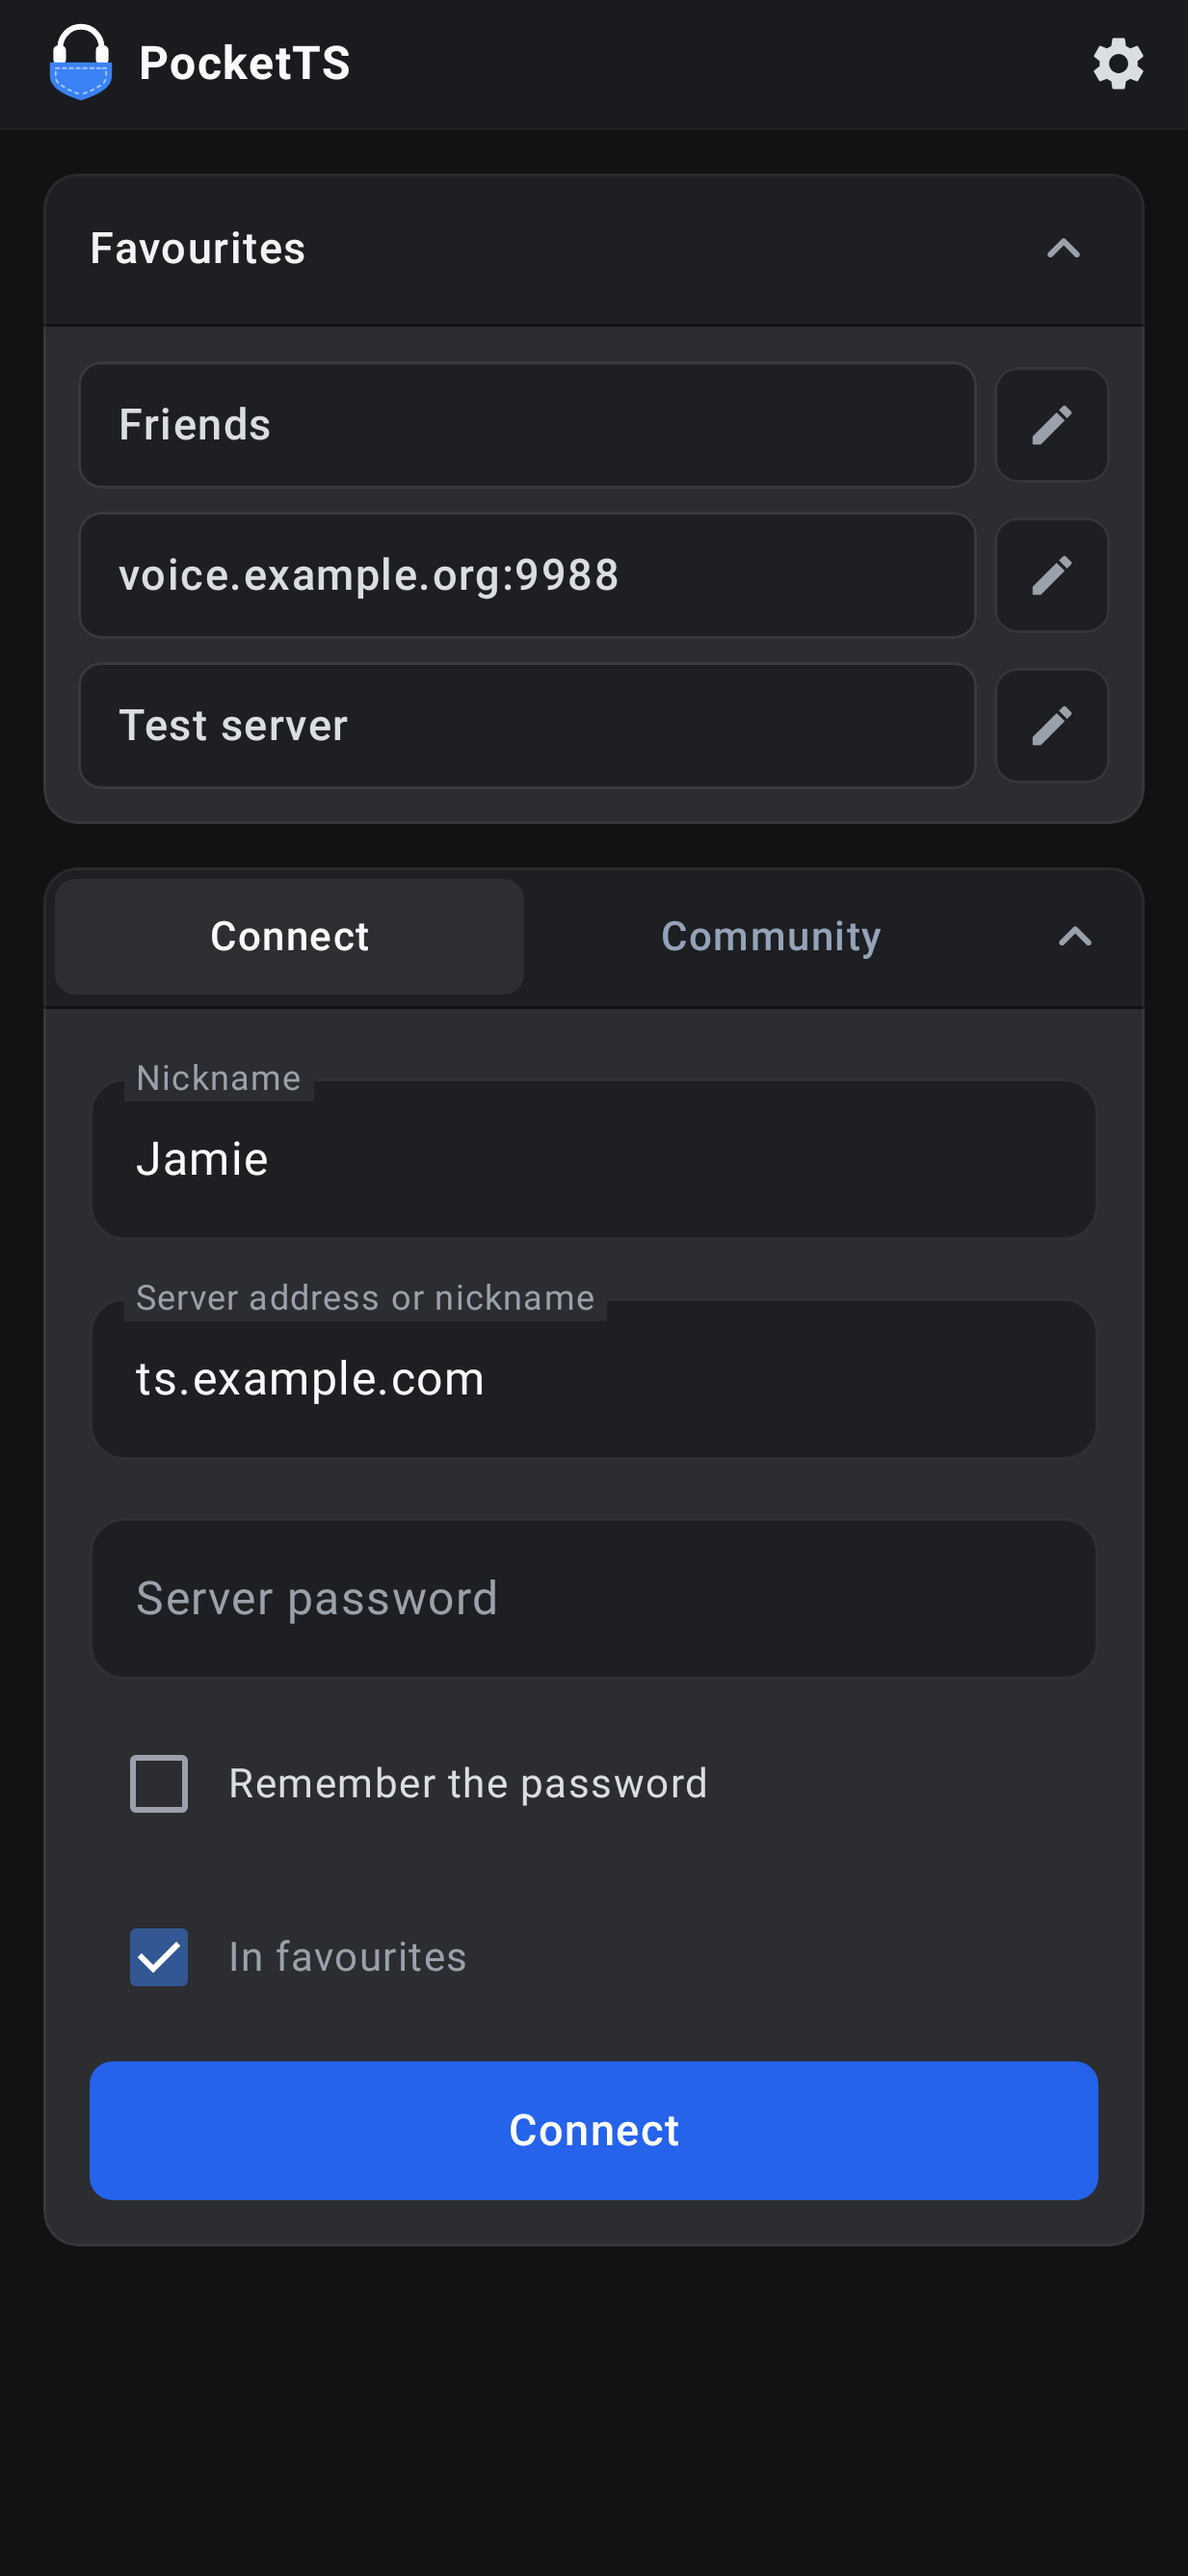
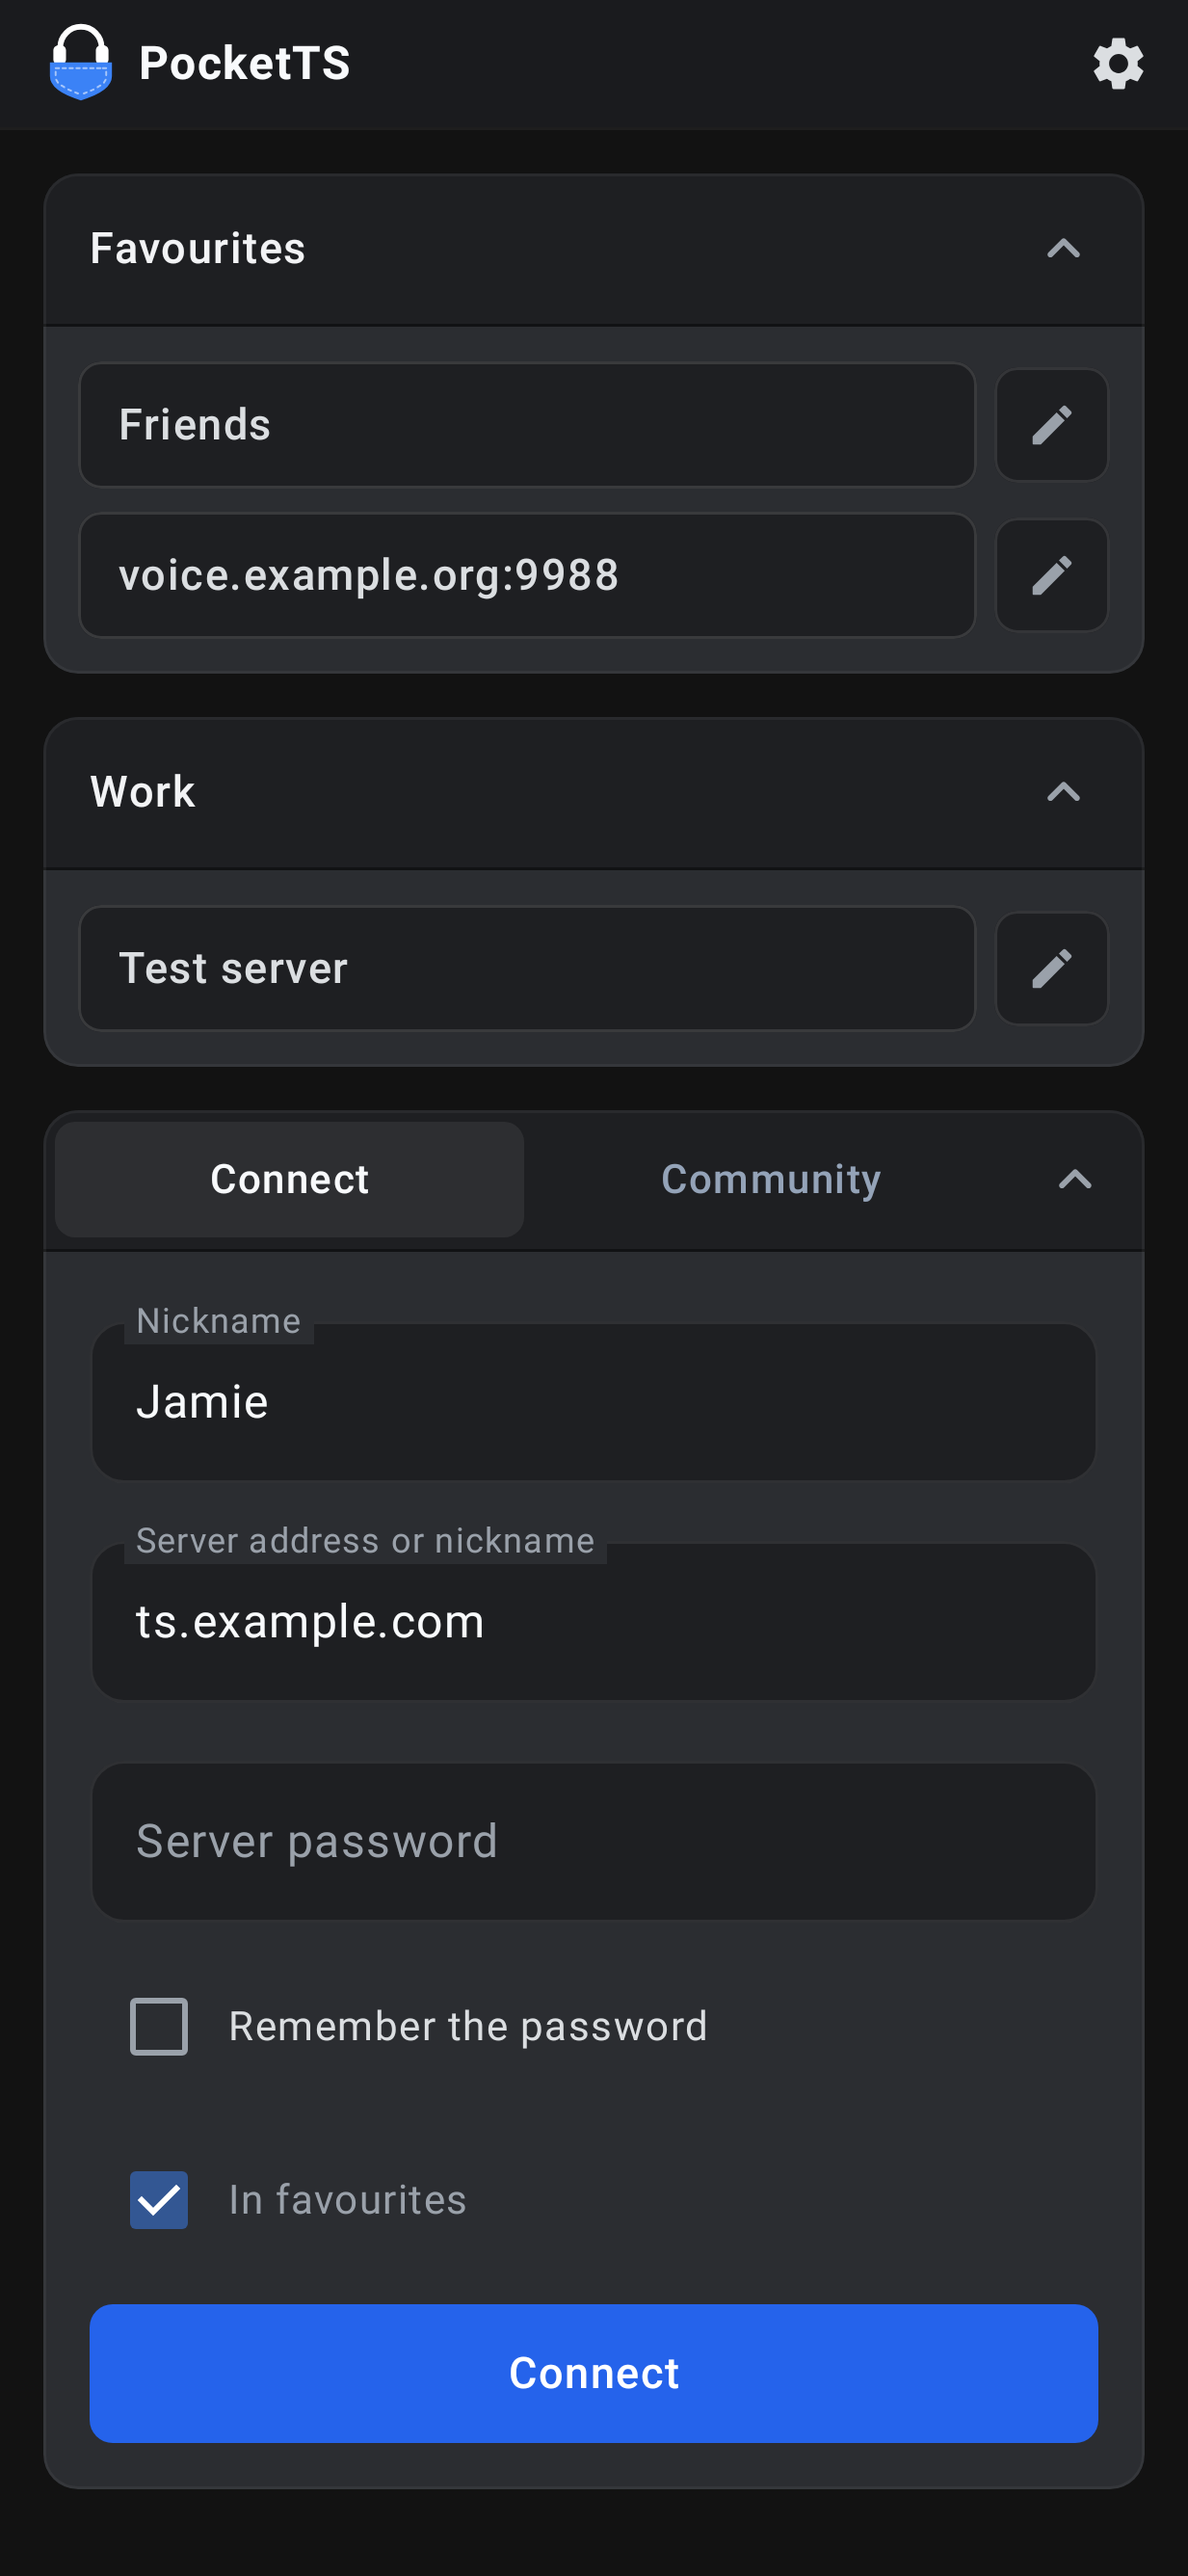
Favourites in folders: credits, README, the store text and the screenshot

diff --git a/app/src/test/kotlin/io/github/korppujauho/pocketts/ScreenshotTest.kt b/app/src/test/kotlin/io/github/korppujauho/pocketts/ScreenshotTest.kt
@@ -64,7 +64,7 @@ class ScreenshotTest {
             "Jamie", "ts.example.com", "", listOf(
                 Favorite("ts.example.com", "Friends", auto = true),
                 Favorite("voice.example.org:9988"),
-                Favorite("192.0.2.10:9987", "Test server"),
+                Favorite("192.0.2.10:9987", "Test server", folder = "Work"),
             ), null, Example.noConnect, settingsActions = Example.noSettings,
         )
     }

diff --git a/README.md b/README.md
@@ -20,9 +20,9 @@ to join.
   button for the phone's other back lenses.
 - **Admin tools** (optional): move, kick and ban people, and add, edit, move and delete channels. The server decides
   who may.
-- **Connecting** by address, server nickname, TeamSpeak link or invite; favourites; TeamSpeak's own public community
-  servers, one tap away; privilege keys from a server's admin; reconnecting by itself when the network changes; and
-  mute, sound and disconnect buttons in the notification.
+- **Connecting** by address, server nickname, TeamSpeak link or invite; favourites, in folders you name and arrange
+  by dragging; TeamSpeak's own public community servers, one tap away; privilege keys from a server's admin;
+  reconnecting by itself when the network changes; and mute, sound and disconnect buttons in the notification.
 - **Settings** and sounds for events.
 - **Languages:** English, Finnish, German, Spanish, French, Simplified Chinese, Russian and Czech (see
   [TRANSLATIONS.md](TRANSLATIONS.md); corrections welcome).

diff --git a/CREDITS.md b/CREDITS.md
@@ -12,6 +12,9 @@ People who have helped make PocketTS. Thank you!
   in [their fork](https://github.com/chochrunius/pocketts/commit/9ca66a224c3d6e283689d826f660c40533d61b4e). Their fork
   also had the idea of a channel to join on each server, which became the favourites' channel, and showed the connect
   screen's error at the top ([commit](https://github.com/chochrunius/pocketts/commit/48e3359ed6)).
+- **[imaliaz](https://github.com/imaliaz)**: the ideas for the favourites: folders that fold shut, arranging by
+  dragging, removing only from the edit window, and a connect panel that can be put away
+  ([#128](https://github.com/KorppuJauho/pocketts/issues/128)).
 
 ## Translations
 

diff --git a/docs/play/listing.md b/docs/play/listing.md
@@ -42,7 +42,7 @@ AND MORE
 • Connect by address, server nickname, TeamSpeak link or invite
 • TeamSpeak's own public community servers, one tap away
 • Use a privilege key from a server's admin
-• Favourite servers, and switching between them
+• Favourite servers in folders you name and arrange, and switching between them
 • Mute, sound and disconnect buttons in the notification
 • Your TeamSpeak identity: import it from a TeamSpeak app, export it, and raise its security level
 • Admin tools for server admins: move, kick and ban people, and add, edit, reorder and delete channels (optional)
